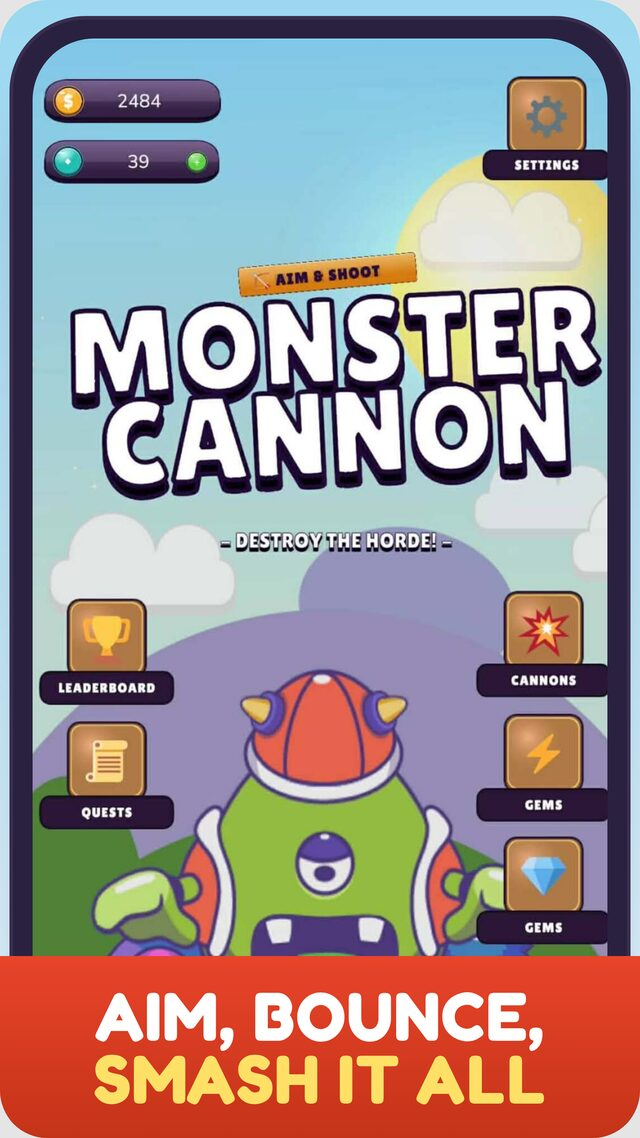
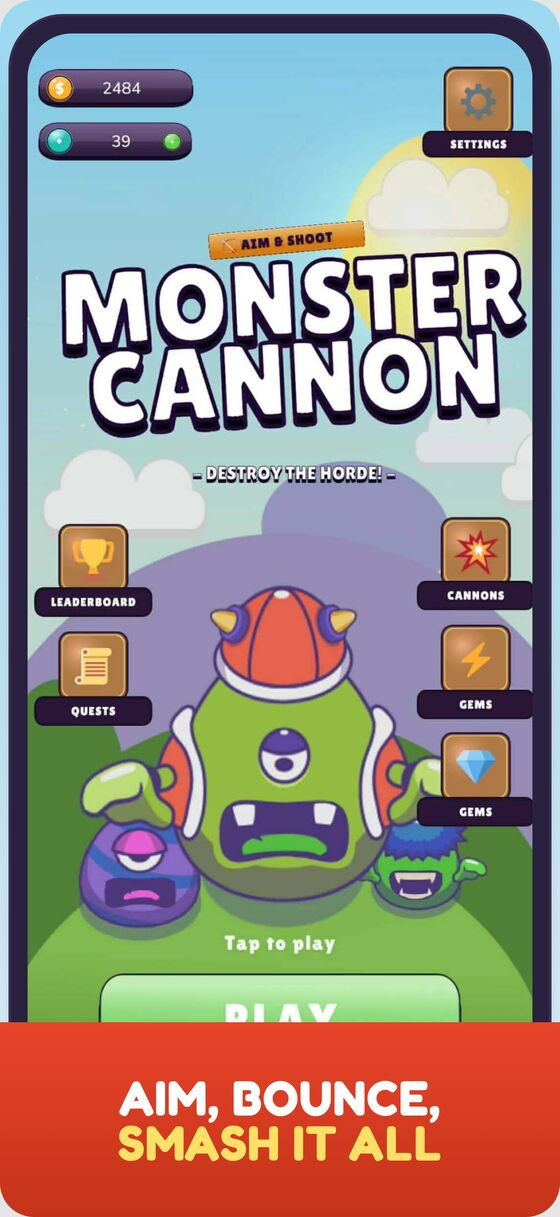
Cadre iPhone de Flipia et galerie sur les exports App Store 6.9
Cadre
- PhoneFrame reprend le DeviceFrame iphone-15-pro de screenshoot-app avec
  les surcharges Flipia : châssis noir 9/19.5, coins 7 %, bord 2 %,
  écran 5 %, Dynamic Island
- L'écran d'iPhone étant plus étroit que le 9/16 du trailer, celui-ci est
  affiché en object-contain sur un fond d'affiche flouté : object-cover
  rognait 11 % de chaque côté et coupait le HUD

Galerie
- public/store repris depuis appstore/iphone-6.9 : plus haut que l'export
  Play, il laisse voir la barre de boosts que celui-ci rognait, et son
  ratio s'aligne sur le cadre du hero

Claude-Session: https://claude.ai/code/session_01PxWSTy3Jo6zht2oQh5YGXy

diff --git a/src/features/landing/showcase/phone-frame.tsx b/src/features/landing/showcase/phone-frame.tsx
@@ -1,13 +1,13 @@
 import { cn } from "@/lib/utils";
 
 /**
- * Cadre téléphone repris au pixel des exports ASO
- * (screenshoot-app → exports/monster-cannon/.../iphone-6.9). Mesuré sur un
- * export 1320 px : châssis de 1280 px de large, bord de 45 px sur les quatre
- * côtés (3,5 %), rayon de 123 px (9,6 %), corps repeint en encre brune #2A2118 pour la palette papier.
+ * Cadre iPhone repris de screenshoot-app (`DeviceFrame iphone-15-pro` avec les
+ * surcharges du projet Flipia) : châssis noir en 9/19,5, coins à 7 %, bord de
+ * 2 %, écran à 5 %, Dynamic Island en pilule.
  *
- * Le ratio 1080/1920 est porté par l'écran, pas par le châssis : c'est celui
- * du trailer et des captures, donc le média remplit l'écran au pixel près.
+ * Le trailer est en 9/16, plus large que l'écran d'un iPhone : l'appelant
+ * l'affiche en `object-contain` par-dessus un fond flouté, plutôt que de le
+ * rogner et d'amputer le HUD du jeu.
  */
 export function PhoneFrame({
   children,
@@ -26,14 +26,17 @@ export function PhoneFrame({
         <div className="pointer-events-none absolute -inset-6 rounded-[60px] bg-primary/15 blur-3xl" />
       )}
 
-      <div className="relative rounded-[29px] border-2 border-[#5A4A34] bg-[#2A2118] p-[3.5%] shadow-[0_30px_60px_-15px_rgba(42,33,24,0.45)]">
+      <div className="relative aspect-[9/19.5] rounded-[7%] bg-black p-[2%] shadow-[0_30px_60px_-12px_rgba(0,0,0,0.55)]">
         <div
           className={cn(
-            "relative aspect-[1080/1920] w-full overflow-hidden rounded-[24px] bg-[#1B160F]",
+            "relative size-full overflow-hidden rounded-[5%] bg-black",
             screenClassName,
           )}
         >
           {children}
+
+          {/* Dynamic Island */}
+          <span className="absolute left-1/2 top-[1.3%] z-10 h-[3.2%] w-[30%] -translate-x-1/2 rounded-full bg-black" />
         </div>
       </div>
     </div>

diff --git a/src/features/landing/showcase/store-gallery.tsx b/src/features/landing/showcase/store-gallery.tsx
@@ -4,15 +4,15 @@ import Image from "next/image";
 import { Reveal } from "@/components/reveal";
 
 import {
-  SHOT_HEIGHT,
-  SHOT_WIDTH,
   STORE_SHOTS,
+  STORE_SHOT_HEIGHT,
+  STORE_SHOT_WIDTH,
   storeShotSrc,
 } from "@/features/landing/assets";
 
 /**
- * Les captures de la fiche Google Play, telles quelles — bandes de légende
- * comprises. La page raconte donc exactement la même histoire que le store.
+ * Les captures du store, telles quelles — bandes de légende comprises.
+ * La page raconte donc exactement la même histoire que la fiche.
  */
 export function StoreGallery() {
   const t = useTranslations("store");
@@ -45,8 +45,8 @@ export function StoreGallery() {
               <Image
                 src={storeShotSrc(key, locale)}
                 alt={alts[i] ?? ""}
-                width={SHOT_WIDTH}
-                height={SHOT_HEIGHT}
+                width={STORE_SHOT_WIDTH}
+                height={STORE_SHOT_HEIGHT}
                 sizes="(min-width: 1024px) 180px, (min-width: 768px) 30vw, 190px"
                 loading="lazy"
                 className="w-full rounded-[18px] border-[3px] border-ink shadow-[0_6px_0_0_var(--ink)]"

diff --git a/src/features/landing/assets.ts b/src/features/landing/assets.ts
@@ -40,9 +40,9 @@ export function playBadgeSrc(locale: string) {
 }
 
 /**
- * Captures de la fiche Google Play (bandes de légende comprises), exportées
- * depuis screenshoot-app. C'est la galerie de la landing : la page montre
- * exactement ce que le visiteur verra sur le store.
+ * Captures du store (bandes de légende comprises), exportées depuis
+ * screenshoot-app au format App Store iPhone 6.9 : plus haut que l'export
+ * Play, il laisse voir le HUD du bas que celui-ci rognait.
  */
 export const STORE_SHOTS = [
   "01-hero",
@@ -57,6 +57,6 @@ export function storeShotSrc(key: string, locale: string) {
   return `/store/${key}_${shotLocale(locale)}.jpg`;
 }
 
-/** Format natif des captures (1080×1920). */
-export const SHOT_WIDTH = 1080;
-export const SHOT_HEIGHT = 1920;
+/** Format natif des exports App Store 6.9. */
+export const STORE_SHOT_WIDTH = 1320;
+export const STORE_SHOT_HEIGHT = 2868;

diff --git a/src/features/landing/showcase/trailer.tsx b/src/features/landing/showcase/trailer.tsx
@@ -29,6 +29,14 @@ export function Trailer() {
   return (
     <div className="mx-auto flex w-full max-w-[300px] flex-col items-center gap-3 lg:-translate-y-6">
       <PhoneFrame>
+        {/* L'écran d'iPhone est plus étroit que le 9/16 du jeu : plutôt que
+            de rogner le HUD, on comble avec l'affiche floutée. */}
+        <div
+          aria-hidden
+          className="absolute inset-0 scale-125 bg-cover bg-center blur-xl brightness-[0.55]"
+          style={{ backgroundImage: `url(${TRAILER_POSTER})` }}
+        />
+
         <video
           ref={videoRef}
           src={TRAILER_SRC}
@@ -39,7 +47,7 @@ export function Trailer() {
           loop
           playsInline
           preload="metadata"
-          className="size-full object-cover"
+          className="relative size-full object-contain"
         />
 
         <button

diff --git a/CLAUDE.md b/CLAUDE.md
@@ -73,12 +73,15 @@ src/
     assets.ts       # PLAY_URL + helpers de chemins vers public/game
     shell/          # navbar, footer, play-badge (badge officiel + bouton navbar)
     showcase/       # hero, trailer, phone-frame, store-gallery
+                    # phone-frame reprend le DeviceFrame iphone-15-pro de
+                    # screenshoot-app (surcharges Flipia : rounded 7%, p 2%)
     pitch/          # highlights, steps, solution, features, faq, final-cta
   features/legal/   # legal-layout.tsx (+ CONTACT_EMAIL = contact@dzeryhago.com)
 public/
   game/             # trailer_720.mp4 + poster.jpg (vertical, cadre téléphone)
                     # hero_bg.mp4 + poster (trailer paysage réencodé, fond du hero)
-  store/            # les 6 captures de la fiche Play × FR/EN (exports screenshoot-app)
+  store/            # les 6 captures du store × FR/EN (exports screenshoot-app,
+                    # format App Store iPhone 6.9 : plus haut que l'export Play)
   badges/           # badge officiel Google Play (FR/EN), à servir sans modification
   og.jpg            # image Open Graph / Twitter
 docs/
